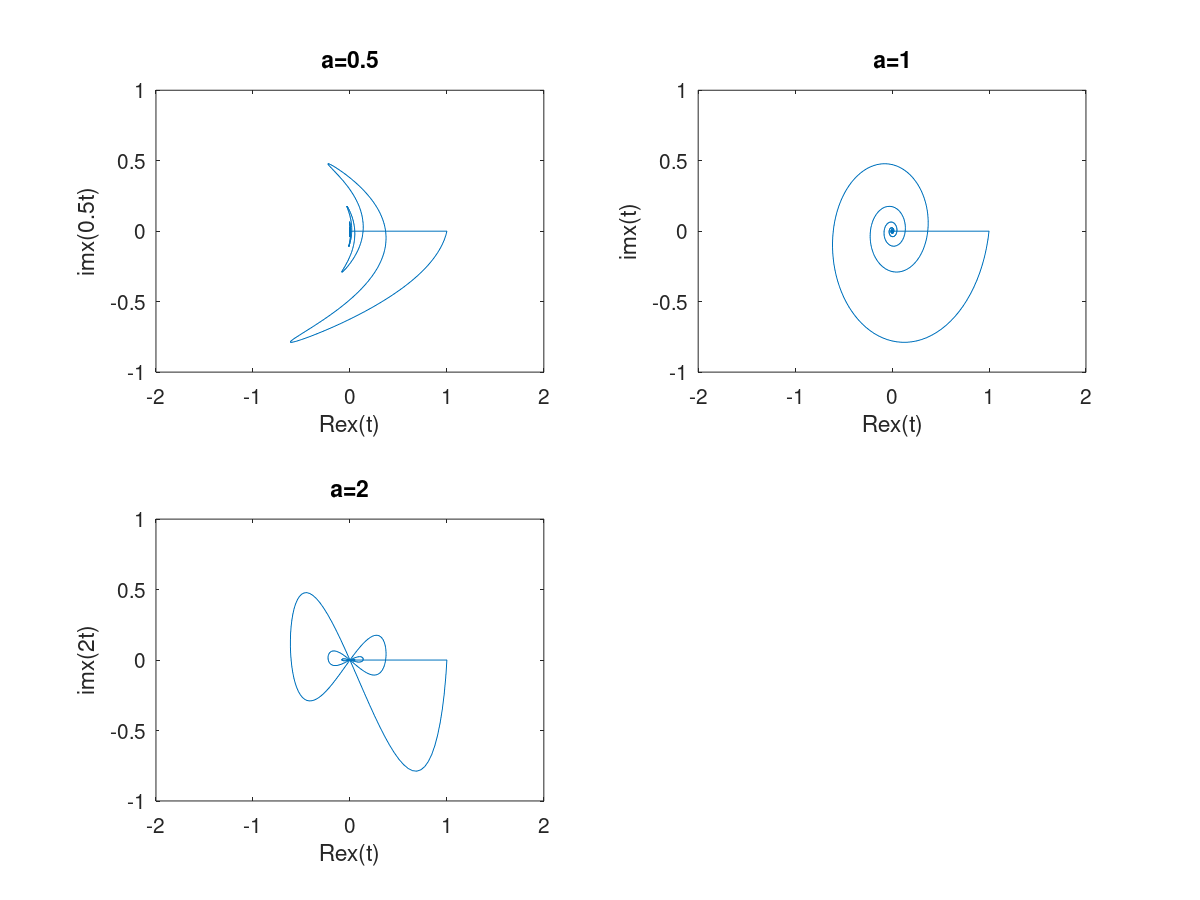
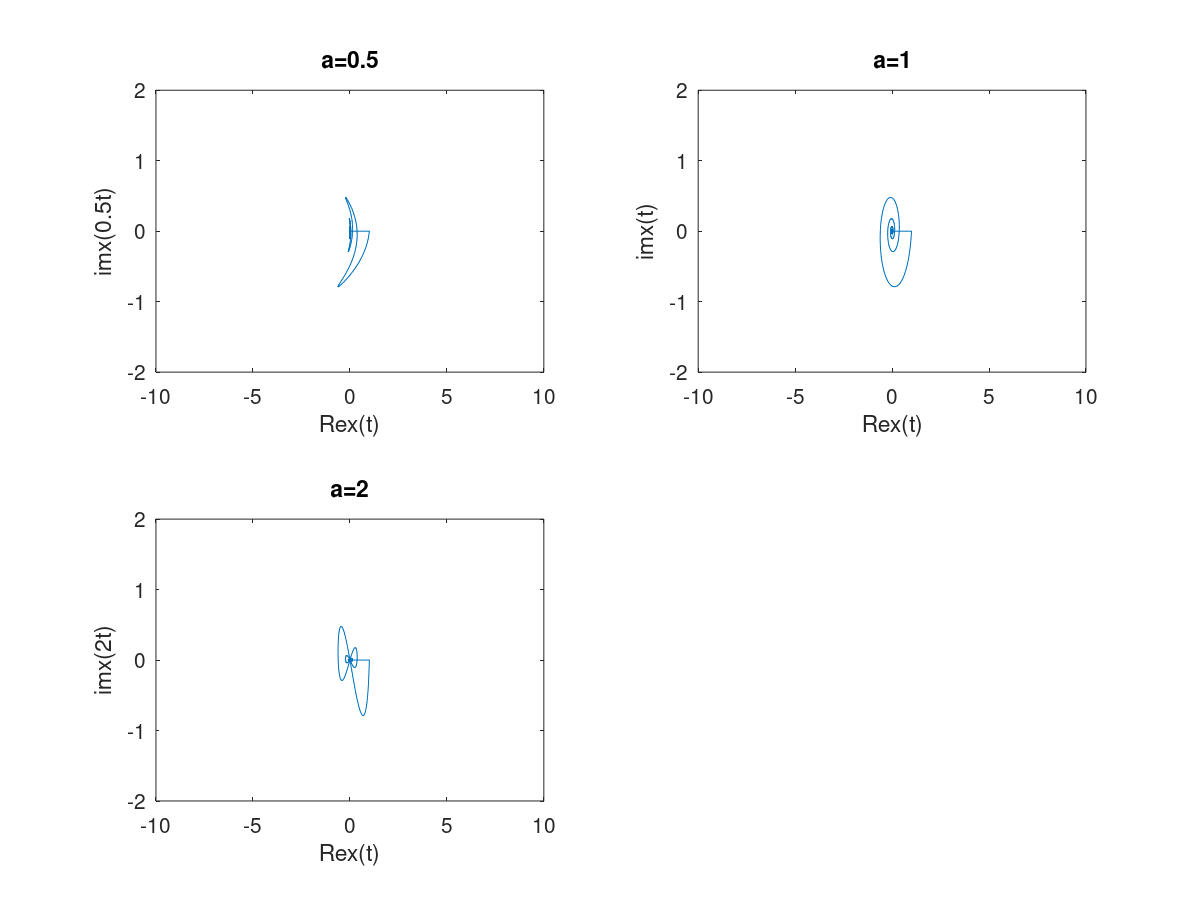
analitico5

diff --git a/html/prueba.html b/html/prueba.html
@@ -553,7 +553,7 @@ compute the energy $E_x$ of signal x(t).</p>
 <p><b>D)</b> Use MATLAB and numerical integration to
 compute the energy $E_y$ of signal $y(t)$.</p>
 
-<p><b>E)</b> Graficar a la función $x(t)$ en el intervalo (-10 \leq t \leq 10).</p>
+<p><b>E)</b> Graficar a la función $x(t)$ en el intervalo $(-10 \leq t \leq 10)$.</p>
 
 <pre class="oct-code">t = (-10:0.01:10);
 
@@ -573,7 +573,7 @@ a=0.5;
 
 plot(real(x(t)),imag(x(a*t)));
 
-axis([-2 2 -1 1]);
+axis([-10 10 -2 2]);
 
 title(<span class="string">'a=0.5'</span>);
 
@@ -588,7 +588,7 @@ a=1;
 
 plot(real(x(t)),imag(x(a*t)));
 
-axis([-2 2 -1 1]);
+axis([-10 10 -2 2]);
 
 title(<span class="string">'a=1'</span>);
 
@@ -603,7 +603,7 @@ a=2;
 
 plot(real(x(t)),imag(x(a*t)));
 
-axis([-2 2 -1 1]);
+axis([-10 10 -2 2]);
 
 title(<span class="string">'a=2'</span>);
 
@@ -611,14 +611,13 @@ xlabel(<span class="string">'Re{x(t)}'</span>);
 
 ylabel(<span class="string">'im{x(2t)}'</span>);</pre>
 <img src="prueba-17.png" alt="prueba-17.png">
-<p><b>B)</b> Use MATLAB to plot $y(t)$ over -10\leq t\leq
-10. Analytically determine the time $t_0$ where
+<p><b>B)</b> Use MATLAB to plot $y(t)$ over $-10\leq t\leq 10$. Analytically determine the time $t_0$ where
 y(t) has a jump discontinuity. Verify yourcalculation
 of $t_0$ using the plot of $y(t)$.</p>
 
 <pre class="oct-code">plot(t,y(t));
 
-axis([-2 2 -1 1]);
+axis([-10 10 -2 2]);
 
 title(<span class="string">'inciso b'</span>);
 
@@ -626,6 +625,28 @@ xlabel(<span class="string">'t'</span>);
 
 ylabel(<span class="string">'y(t)'</span>);</pre>
 <img src="prueba-18.png" alt="prueba-18.png">
+<p>$ y(t) = Re(2x(\frac{-5-t}{2})) $</p>
+
+<p>$2x(\frac{-5-t}{2}) = 2e^{\frac{-5-t}{2}(1+j2\pi)}u(-\frac{-5-t}{2})$</p>
+
+<p>$ 2x(\frac{-5-t}{2}) = 2e^{\frac{-5-t}{2}}e^{j(-5-t)\pi}u(\frac{t+5}{2}) $</p>
+
+<p>$ 2x(\frac{-5-t}{2}) = 2e^{\frac{-5-t}{2}}(cos(\pi (-5-t))+jsin(\pi(-5-t)))u(\frac{t+5}{2}) $</p>
+
+<p>$ 2x(\frac{-5-t}{2}) = 2e^{\frac{-5-t}{2}}cos(\pi (-5-t))u(\frac{t+5}{2}) + 2je^{\frac{-5-t}{2}}sin(\pi (-5-t))u(\frac{t+5}{2}) $</p>
+
+<p>$ \therefore y(t) = 2e^{\frac{-5-t}{2}}cos(\pi (-5-t))u(\frac{t+5}{2}) $</p>
+
+<p>La discontinuidad de salto se presenta cuando cambia el valoe del escalón unitario, entonces:</p>
+
+<p>$\frac{t+5}{2} \geq 0$</p>
+
+<p>$t \geq -5$</p>
+
+<p>$\therefore t_0 = -5$</p>
+
+<p>La discontinuidad de salto se presenta cuando $t = t_0 =-5$.</p>
+
 <p><b>C)</b> Use MATLAB and numerical integration to
 compute the energy $E_x$ of signal x(t).</p>
 
@@ -665,6 +686,7 @@ title (<span class="string">'Norma al cuadrado de y(t)'</span>);</pre>
 <p><b>E)</b> Graficar a la función $x(t)$ en el intervalo $(-10 \leq t \leq 10)$.</p>
 
 <pre class="oct-code">plot3(real(x(t)), imag(x(t)), t);
+axis([-10 10 -2 2]);
 xlabel (<span class="string">'Re(x(t))'</span>);
 ylabel (<span class="string">'Im(x(t))'</span>);
 zlabel (<span class="string">'t'</span>);
@@ -1213,7 +1235,7 @@ title('Gráfica rango 2pi<=t<42pi ');
 % *D)* Use MATLAB and numerical integration to
 % compute the energy $E_y$ of signal $y(t)$.
 %
-% *E)* Graficar a la función $x(t)$ en el intervalo (-10 \leq t \leq 10).
+% *E)* Graficar a la función $x(t)$ en el intervalo $(-10 \leq t \leq 10)$.
 
 t = (-10:0.01:10);
 
@@ -1235,7 +1257,7 @@ a=0.5;
 
 plot(real(x(t)),imag(x(a*t)));
 
-axis([-2 2 -1 1]);
+axis([-10 10 -2 2]);
 
 title('a=0.5');
 
@@ -1250,7 +1272,7 @@ a=1;
 
 plot(real(x(t)),imag(x(a*t)));
 
-axis([-2 2 -1 1]);
+axis([-10 10 -2 2]);
 
 title('a=1');
 
@@ -1265,7 +1287,7 @@ a=2;
 
 plot(real(x(t)),imag(x(a*t)));
 
-axis([-2 2 -1 1]);
+axis([-10 10 -2 2]);
 
 title('a=2');
 
@@ -1275,14 +1297,13 @@ ylabel('im{x(2t)}');
 
 
 %%
-% *B)* Use MATLAB to plot $y(t)$ over -10\leq t\leq
-% 10. Analytically determine the time $t_0$ where
+% *B)* Use MATLAB to plot $y(t)$ over $-10\leq t\leq 10$. Analytically determine the time $t_0$ where
 % y(t) has a jump discontinuity. Verify yourcalculation
 % of $t_0$ using the plot of $y(t)$.
 
 plot(t,y(t));
 
-axis([-2 2 -1 1]);
+axis([-10 10 -2 2]);
 
 title('inciso b');
 
@@ -1290,6 +1311,31 @@ xlabel('t');
 
 ylabel('y(t)');
 
+%%
+% $ y(t) = Re(2x(\frac{-5-t}{2})) $
+%%
+% $2x(\frac{-5-t}{2}) = 2e^{\frac{-5-t}{2}(1+j2\pi)}u(-\frac{-5-t}{2})$
+%%
+% $ 2x(\frac{-5-t}{2}) = 2e^{\frac{-5-t}{2}}e^{j(-5-t)\pi}u(\frac{t+5}{2}) $
+
+%%
+% $ 2x(\frac{-5-t}{2}) = 2e^{\frac{-5-t}{2}}(cos(\pi (-5-t))+jsin(\pi(-5-t)))u(\frac{t+5}{2}) $
+
+%%
+% $ 2x(\frac{-5-t}{2}) = 2e^{\frac{-5-t}{2}}cos(\pi (-5-t))u(\frac{t+5}{2}) + 2je^{\frac{-5-t}{2}}sin(\pi (-5-t))u(\frac{t+5}{2}) $
+
+%%
+% $ \therefore y(t) = 2e^{\frac{-5-t}{2}}cos(\pi (-5-t))u(\frac{t+5}{2}) $
+%%
+% La discontinuidad de salto se presenta cuando cambia el valoe del escalón unitario, entonces:
+%%
+% $\frac{t+5}{2} \geq 0$
+%%
+% $t \geq -5$
+%%
+% $\therefore t_0 = -5$
+%%
+% La discontinuidad de salto se presenta cuando $t = t_0 =-5$.
 
 %%
 % *C)* Use MATLAB and numerical integration to
@@ -1330,6 +1376,7 @@ q2 = integral (h2,-6,10)
 % *E)* Graficar a la función $x(t)$ en el intervalo $(-10 \leq t \leq 10)$.
 
 plot3(real(x(t)), imag(x(t)), t);
+axis([-10 10 -2 2]);
 xlabel ('Re(x(t))');
 ylabel ('Im(x(t))');
 zlabel ('t');

diff --git a/prueba.m b/prueba.m
@@ -535,7 +535,7 @@ title('Gráfica rango 2pi<=t<42pi ');
 % *D)* Use MATLAB and numerical integration to
 % compute the energy $E_y$ of signal $y(t)$.
 %
-% *E)* Graficar a la función $x(t)$ en el intervalo (-10 \leq t \leq 10).
+% *E)* Graficar a la función $x(t)$ en el intervalo $(-10 \leq t \leq 10)$.
 
 t = (-10:0.01:10);
 
@@ -557,7 +557,7 @@ a=0.5;
 
 plot(real(x(t)),imag(x(a*t)));
 
-axis([-2 2 -1 1]);
+axis([-10 10 -2 2]);
 
 title('a=0.5');
 
@@ -572,7 +572,7 @@ a=1;
 
 plot(real(x(t)),imag(x(a*t)));
 
-axis([-2 2 -1 1]);
+axis([-10 10 -2 2]);
 
 title('a=1');
 
@@ -587,7 +587,7 @@ a=2;
 
 plot(real(x(t)),imag(x(a*t)));
 
-axis([-2 2 -1 1]);
+axis([-10 10 -2 2]);
 
 title('a=2');
 
@@ -597,14 +597,13 @@ ylabel('im{x(2t)}');
 
 
 %%
-% *B)* Use MATLAB to plot $y(t)$ over -10\leq t\leq
-% 10. Analytically determine the time $t_0$ where
+% *B)* Use MATLAB to plot $y(t)$ over $-10\leq t\leq 10$. Analytically determine the time $t_0$ where
 % y(t) has a jump discontinuity. Verify yourcalculation 
 % of $t_0$ using the plot of $y(t)$.
 
 plot(t,y(t));
 
-axis([-2 2 -1 1]);
+axis([-10 10 -2 2]);
 
 title('inciso b');
 
@@ -612,6 +611,31 @@ xlabel('t');
 
 ylabel('y(t)');
 
+%%
+% $ y(t) = Re(2x(\frac{-5-t}{2})) $
+%%
+% $2x(\frac{-5-t}{2}) = 2e^{\frac{-5-t}{2}(1+j2\pi)}u(-\frac{-5-t}{2})$
+%%
+% $ 2x(\frac{-5-t}{2}) = 2e^{\frac{-5-t}{2}}e^{j(-5-t)\pi}u(\frac{t+5}{2}) $
+
+%%
+% $ 2x(\frac{-5-t}{2}) = 2e^{\frac{-5-t}{2}}(cos(\pi (-5-t))+jsin(\pi(-5-t)))u(\frac{t+5}{2}) $
+
+%%
+% $ 2x(\frac{-5-t}{2}) = 2e^{\frac{-5-t}{2}}cos(\pi (-5-t))u(\frac{t+5}{2}) + 2je^{\frac{-5-t}{2}}sin(\pi (-5-t))u(\frac{t+5}{2}) $
+
+%%
+% $ \therefore y(t) = 2e^{\frac{-5-t}{2}}cos(\pi (-5-t))u(\frac{t+5}{2}) $
+%%
+% La discontinuidad de salto se presenta cuando cambia el valoe del escalón unitario, entonces:
+%%
+% $\frac{t+5}{2} \geq 0$
+%%
+% $t \geq -5$
+%%
+% $\therefore t_0 = -5$
+%%
+% La discontinuidad de salto se presenta cuando $t = t_0 =-5$.
 
 %%
 % *C)* Use MATLAB and numerical integration to
@@ -652,6 +676,7 @@ q2 = integral (h2,-6,10)
 % *E)* Graficar a la función $x(t)$ en el intervalo $(-10 \leq t \leq 10)$.
 
 plot3(real(x(t)), imag(x(t)), t);
+axis([-10 10 -2 2]);
 xlabel ('Re(x(t))');
 ylabel ('Im(x(t))');
 zlabel ('t');
